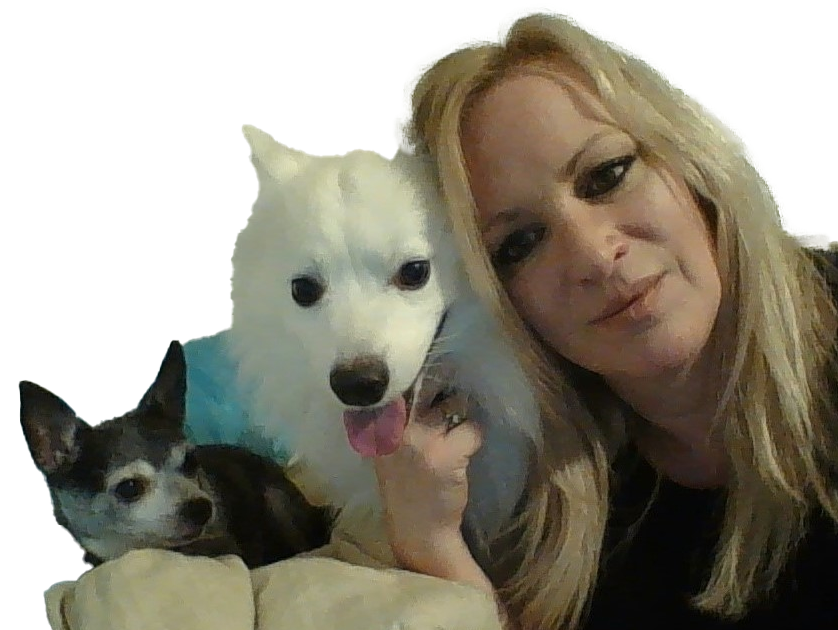
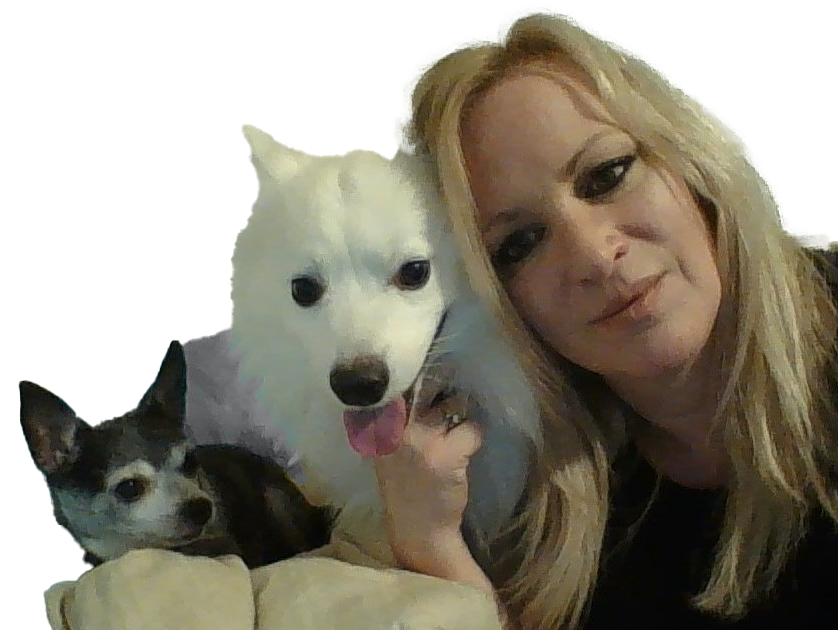
about section

Changed region(s): [[0.2172, 0.5429, 0.3103, 0.7238], [0.3413, 0.7238, 0.3723, 0.7841]]

diff --git a/src/components/about/about.scss b/src/components/about/about.scss
@@ -1,17 +1,22 @@
+
+ #about {
+    margin-top: 5rem;
+  }
+
 .about_container {
     display: grid;
     grid-template-columns:35% 50%;
-    gap: 15%;
+    gap: 10%;
 }
 
 .about_me {
 width: 105%;
-aspect-ratio: 2/1;
+aspect-ratio: 2/1.5;
 border-radius: 2rem;
 background: linear-gradient(
     45deg,
      transparent,
-      var(--color-primary),
+      var(--color-primary-variant),
       transparent
       );
 display: grid;  
@@ -24,9 +29,13 @@ place-items: center;
     transform: rotate(15deg); 
     width: fit-content;
     position: relative;
-    top: 50px;
-    background-color: var(--color-primary);
+    top: .25rem;
+    background-color: var(--color-primary-variant);
     height: fit-content;
+    background-image: url("https://www.transparenttextures.com/patterns/dark-brick-wall.png");
+
+        opacity: 0.9;
+        filter: alpha(opacity=90);
     
 }
 .about_me-image:hover {
@@ -37,12 +46,14 @@ place-items: center;
     grid-template-columns: repeat(3,1fr);
     gap: 1.5rem;
 }
+//--- cards
  article {  
-   background: var(--color-bg-varient);
+   background: var(--color-bg-variant);
    border: 1px solid transparent;
    border-radius: 1rem;
    padding: 2rem;
    text-align: center; 
+//    background-image: url("https://www.transparenttextures.com/patterns/dark-brick-wall.png");
 }
 
 article:hover {
@@ -57,4 +68,67 @@ article:hover {
 }
 .about_card h5 {
     font-size: 0.9rem;
+}
+.about_card small {
+    font-size: 0.7rem;
+    color: var(--color-light);
+}
+.about_content p {
+    margin: 2rem 0 2.6rem;
+    color: var(--color-light);
+}
+
+/*--------Media Queries (medium)---------*/
+@media screen and (max-width: 1024px) {
+    .about_container {
+        grid-template-columns: 1fr;
+        gap: 0;
+    }
+    .about_me {
+        width: 50%;
+        margin: 2rem auto 5rem;
+        aspect-ratio: 1/.75;
+    }
+    .about_me-image {
+        width: 100%;
+        margin: 0 auto 2rem;
+        top: 16px;
+    }
+    .about_content {
+        margin: 1rem 0 1.5rem;
+    }
+    
+}
+
+/*--------Media Queries (small)---------*/
+
+@media screen and (max-width: 600px) {
+    .about_container {
+        grid-template-columns: 1fr;
+    }
+    .about_me {
+        width: 55%;
+        margin: 0 auto 2rem;
+       
+     
+       
+    }
+    .about_me-image {
+        width: 100%;
+        margin: 0 auto 2rem;
+        top: 15px;
+    }
+
+    .about_cards {
+        grid-template-columns: 1fr 1fr;
+        gap: 1rem;
+        margin-top: 2rem;
+    }
+    .about_content {
+        text-align: center;
+    }
+    .about_content p {
+        margin: 1.5rem 0 ;
+    }
+    
 }

diff --git a/src/components/header/header.scss b/src/components/header/header.scss
@@ -1,7 +1,8 @@
 header {
-    height: 100vh;
+    height: 70vh;
     padding-top: 7rem;
     overflow: hidden;
+    padding-bottom: 0;
 }
 .header_container {
     text-align: center;
@@ -37,20 +38,21 @@ justify-content: center;
     gap: 0.8rem ;
     position: absolute; 
     left: 10%;
-    bottom: 45rem; 
+    bottom: 48rem; 
     float: left;
 }
 
-.header_socials::after {
-    content:"";
-    width: 1px ;
-    height: 2rem;
-    background:var(--color-primary) ;
-    float: left;
-}
+// .header_socials::after {
+//     content:"";
+//     width: 1px ;
+//     height: 2rem;
+//     background:var(--color-primary) ;
+//     float: left;
+//}
 /*--------Me-------*/
 .me {
-    background: linear-gradient(var(--color-primary), transparent);
+    background: linear-gradient( 45deg,
+    transparent,var(--color-primary-variant), transparent);
     width: 25rem;
     height: 40rem;
     position: absolute;
@@ -59,16 +61,22 @@ justify-content: center;
     margin-top: 4rem;   
     border-radius: 12rem 12rem 0 0;
     overflow: hidden;
-    padding: 2rem .33rem .33rem .33rem;
+    padding: 3rem .33rem .33rem .33rem;
     display: inline;
 
+}
+
+.me img {
+  opacity: 0.8;
+  filter: alpha(opacity=80);
+  background-image: url("https://www.transparenttextures.com/patterns/dark-brick-wall.png");
 }
 /*--------scroll-------*/
 
 .scroll_down {
   position: absolute;
   left:80%;
-  bottom: 48rem;
+  bottom: 50rem;
   transform: rotate(90deg);
   font-weight: 300;
   font-size: 0.9rem;
@@ -83,6 +91,7 @@ justify-content: center;
       }
       section {
         margin-top: 6rem;
+      
       }  
   }
   
@@ -93,6 +102,6 @@ justify-content: center;
       width: var(--container-width-sm);
       }
       section > h2 {
-        margin-bottom: 2rem;
+        margin-bottom: 12rem;
       }  
   }

diff --git a/src/index.scss b/src/index.scss
@@ -10,13 +10,21 @@
   list-style:none;
   text-decoration:none;
 }
+// :root {
+//   --color-bg: #1f1f38;
+//   --color-bg-variant: #2c2c6c;
+//   --color-primary: #4db5ff;
+//   --color-primary-variant:rgba(77,181,255,0.4);
+//   --color-white: #fff;
+//   --color-light: rgba(255,255,255,0.6);
+
 :root {
-  --color-bg: #1f1f38;
-  --color-bg-varient: #2c2c6c;
-  --color-primary: #4db5ff;
-  --color-primary-variant:rgba(77,181,255,0.4);
+  --color-bg: #2C3639;
+  --color-bg-variant: #3F4E4F;
+  --color-primary: #A27B5C;
+  --color-primary-variant:#6F553F;
   --color-white: #fff;
-  --color-light: rgba(255,255,255,0.6);
+  --color-light: #DCD7C9;
 
   --container-width-lg: 75%;
   --container-width-md: 86%;
@@ -39,6 +47,9 @@ body {
   color: var(--color-white);
   line-height: 1.7; 
 background-image: url("https://www.transparenttextures.com/patterns/arches.png");
+//background-color: #338c00;
+//background-image: url("https://www.transparenttextures.com/patterns/dark-brick-wall.png");
+//background-image: url("https://www.transparenttextures.com/patterns/gravel.png");
 }
 
 /*--------------General Styles------------*/
@@ -57,9 +68,12 @@ h1 {
 }
 
 section {
-  margin-top: 8rem;
+  margin-top: 7rem;
   height: 100vh;
 }
+
+
+
 section > h2,section > h5 {
 text-align: center;
 color: var(--color-light);

diff --git a/src/components/header/Header.jsx b/src/components/header/Header.jsx
@@ -1,6 +1,6 @@
 import React from "react";
 import "./header.scss";
-import LavendarMe from "../../assets/img/LavendarMe.png";
+import lavendar_pp from "../../assets/img/lavendar_pp.png";
 import CTA from "../cta/CTA";
 import HeaderSocials from "./headerSocials";
 
@@ -17,7 +17,7 @@ const Header = () => {
 
         <div className="inline">
           <div className="me">
-            <img src={LavendarMe} alt="me" />
+            <img src={lavendar_pp} alt="me" />
           </div>
 
           <div>

diff --git a/src/components/nav/nav.scss b/src/components/nav/nav.scss
@@ -19,11 +19,13 @@ nav a {
     padding: 0.9rem;
     border-radius: 50%;
     display: flex;
-    color: var(--color-light);
+
+    color: var(--color-primary);
     font-size: 1.1rem;    
 }
 nav a :hover{
     background: rgba(0,0,0,0.2);
+    color: var(--color-light);
 }
 nav a :active{
     background: var(--color-bg);
